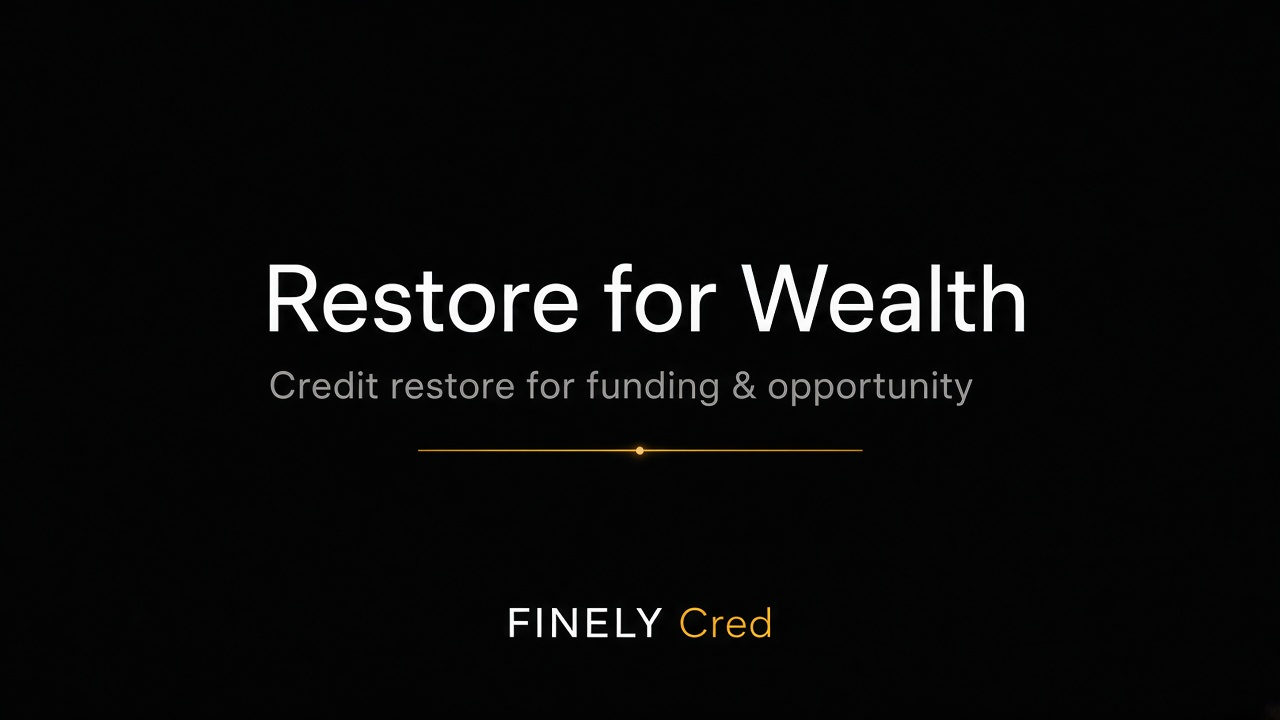
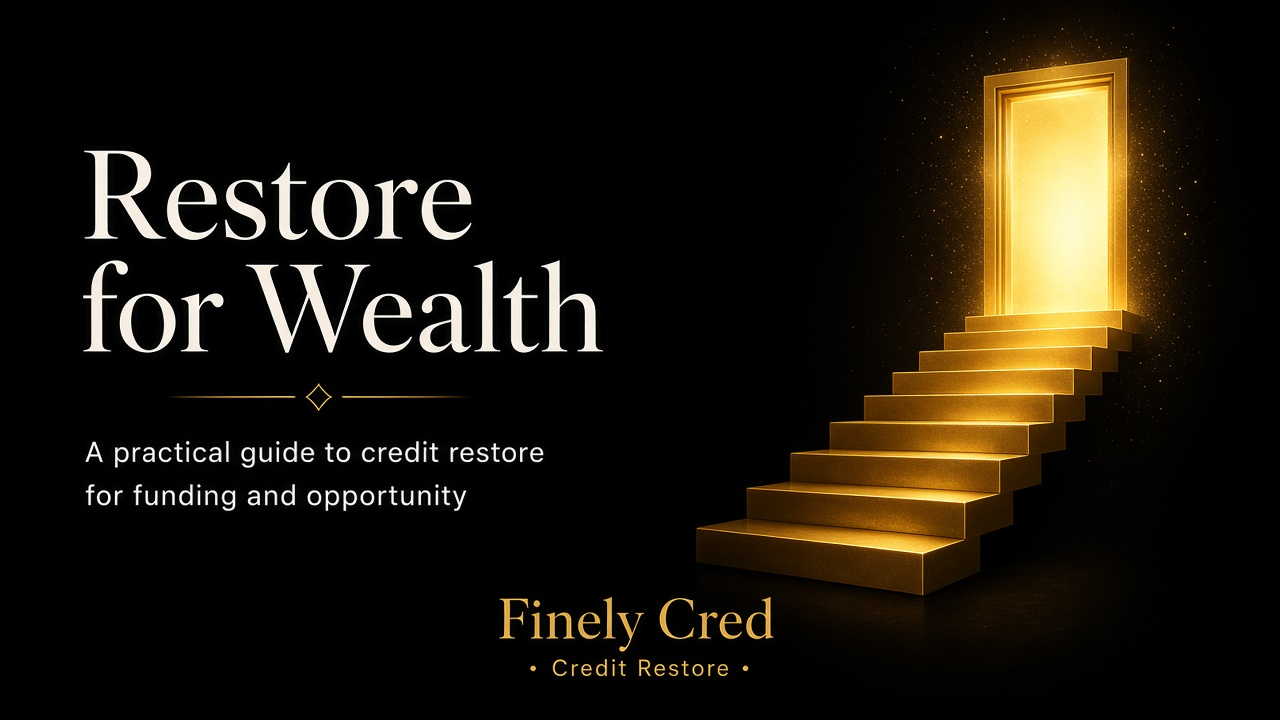
Wire locked v3 cultural ebook covers into funnels and admin preview.
Replace typography-only eGuide art with the gold-and-ink wealth-stairs and desk-culture covers, and show those same files on the admin conversion page and funnel OG cards.

diff --git a/src/pages/admin/AdminEbookConversionPage.tsx b/src/pages/admin/AdminEbookConversionPage.tsx
@@ -22,6 +22,7 @@ import {
   buildEbookConversionSnapshot,
   type EbookConversionPeriod,
 } from '../../lib/ebookConversionMetrics';
+import { BRAND_EBOOK_COVERS } from '../../components/leadmagnet/brandEbookCovers';
 
 const PERIODS: EbookConversionPeriod[] = [7, 14, 30];
 
@@ -95,6 +96,31 @@ export default function AdminEbookConversionPage({ embedded = false }: AdminEmbe
           <FinelyOsOverviewStatTile icon={BookOpen} label="Free Kreyòl guide" value={snapshot.kreyolGuide} accent="emerald" hint="/free-kreyol-guide · kreyol_companion" />
           <FinelyOsOverviewStatTile icon={Phone} label="With phone" value={`${snapshot.phonePct}%`} accent="sky" hint={`${snapshot.withPhone} of ${snapshot.total}`} />
           <FinelyOsOverviewStatTile icon={Radio} label="Other magnets" value={snapshot.otherMagnets} accent="rose" hint="Debt, business, partner-refer, untagged" />
+        </div>
+
+        <div className="grid md:grid-cols-2 gap-4">
+          <a href="/free-guide" className={`${finelyOsCatalogCard('amber')} overflow-hidden group`} data-fc-accent="amber">
+            <img
+              src={BRAND_EBOOK_COVERS.en}
+              alt="Restore for Wealth — English cover"
+              className="w-full aspect-video object-cover"
+            />
+            <div className="p-4">
+              <div className={FINELY_OS_ENTITY_TITLE}>Restore for Wealth</div>
+              <p className={`${FINELY_OS_ENTITY_SUBLABEL} mt-1`}>English `/free-guide` · wealth stairs · gold + ink</p>
+            </div>
+          </a>
+          <a href="/free-kreyol-guide" className={`${finelyOsCatalogCard('emerald')} overflow-hidden group`} data-fc-accent="emerald">
+            <img
+              src={BRAND_EBOOK_COVERS.kreyol}
+              alt="Gid Kredi an Kreyòl — cover"
+              className="w-full aspect-video object-cover"
+            />
+            <div className="p-4">
+              <div className={FINELY_OS_ENTITY_TITLE}>Gid Kredi an Kreyòl</div>
+              <p className={`${FINELY_OS_ENTITY_SUBLABEL} mt-1`}>Haitian `/free-kreyol-guide` · desk culture · gold + ink</p>
+            </div>
+          </a>
         </div>
 
         <div className="grid lg:grid-cols-12 gap-4">

diff --git a/src/lib/publicChatOperator.ts b/src/lib/publicChatOperator.ts
@@ -80,13 +80,13 @@ export function guideForGoal(goal: PublicChatGoal | null): OperatorGuide | null 
     return {
       title: 'Credit kits',
       href: '/free-kreyol-guide',
-      image: '/images/lead-magnets/agency-guide-book.png',
+      image: '/marketing/ebooks/gid-kredi-kreyol-cover.png',
     };
   }
   return {
     title: 'Free restore guide',
     href: '/free-guide',
-    image: '/images/product-shots/guide-dispute-cover.png',
+    image: '/marketing/ebooks/restore-for-wealth-cover.png',
   };
 }
 
@@ -104,7 +104,7 @@ export function operatorChipsForPath(pathname: string, goal: PublicChatGoal | nu
   if (inferred === 'personal') {
     return [
       { id: 'upload', label: 'Upload a report', prompt: 'I want to upload my credit report for a quick read.', action: 'upload', accent: 'emerald' },
-      { id: 'guide', label: 'Free restore guide', prompt: 'I want the free restore guide.', action: 'guide', href: '/free-guide', image: '/images/product-shots/guide-dispute-cover.png', accent: 'violet' },
+      { id: 'guide', label: 'Free restore guide', prompt: 'I want the free restore guide.', action: 'guide', href: '/free-guide', image: '/marketing/ebooks/restore-for-wealth-cover.png', accent: 'violet' },
       { id: 'transfer', label: 'Already in a dispute', prompt: 'I already disputed with another company. I want to start at the next round.', action: 'talk', accent: 'sky' },
       { id: 'book', label: 'Book a session', prompt: 'I want to book a session.', action: 'book', accent: 'rose' },
     ];

diff --git a/src/hooks/usePublicSeoMeta.ts b/src/hooks/usePublicSeoMeta.ts
@@ -15,6 +15,7 @@ export function usePublicSeoMeta(args: {
   title: string;
   description: string;
   path: string;
+  image?: string;
   audio?: { name: string; description: string; contentUrl?: string; durationSec?: number };
   faqs?: Array<{ q: string; a: string }>;
   howTo?: { name: string; description: string; steps: string[] };
@@ -41,7 +42,11 @@ export function usePublicSeoMeta(args: {
     setMeta('property', 'og:description', args.description);
     setMeta('property', 'og:url', pageUrl);
     setMeta('property', 'og:type', 'website');
-    setMeta('property', 'og:image', `${origin}/brand/finely-cred-logo-dark.png`);
+    const imagePath = args.image?.startsWith('http')
+      ? args.image
+      : `${origin}${args.image || '/brand/finely-cred-logo-dark.png'}`;
+    setMeta('property', 'og:image', imagePath);
+    setMeta('name', 'twitter:image', imagePath);
 
     injectJsonLd('fc-org-schema', buildOrganizationSchema(origin));
     injectJsonLd(
@@ -93,6 +98,7 @@ export function usePublicSeoMeta(args: {
     args.title,
     args.description,
     args.path,
+    args.image,
     args.audio?.name,
     args.audio?.description,
     args.audio?.contentUrl,

diff --git a/src/components/leadmagnet/LeadMagnetFunnelShell.tsx b/src/components/leadmagnet/LeadMagnetFunnelShell.tsx
@@ -36,6 +36,7 @@ import { findPartnerByEmail, upsertPartner } from '../../data/partnersRepo';
 import { withPreferredVoice } from '../../lib/haitianVoice';
 import { FunnelLeadCaptureForm, type FunnelLeadCaptureCopy } from './FunnelLeadCaptureForm';
 import { LeadMagnetCallSlaCard } from './LeadMagnetCallSlaCard';
+import { resolveBrandEbookCover } from './brandEbookCovers';
 import { FunnelCollectionDisputePanel } from './FunnelCollectionDisputePanel';
 import { FinelyOsPaginatedStack } from '../../features/os/FinelyOsPaginatedStack';
 import { FinelyUnifiedHubLayout } from '../../features/unified/FinelyUnifiedHubLayout';
@@ -101,6 +102,7 @@ export function LeadMagnetFunnelShell({
     title: activeConfig.metaTitle,
     description: activeConfig.metaDesc,
     path: activeConfig.path,
+    image: resolveBrandEbookCover(activeConfig.guideId, activeConfig.funnelId) ?? undefined,
     faqs:
       getLeadMagnetPremiumProfile(activeConfig)?.faqs ??
       (activeConfig.id === 'credit'

diff --git a/src/components/leadmagnet/brandEbookCovers.ts b/src/components/leadmagnet/brandEbookCovers.ts
@@ -1,7 +1,7 @@
 import type { FreeGuideId } from '../../resources/freeGuides';
 import type { LeadMagnetFunnelConfig } from '../../domain/leadMagnetFunnels';
 
-/** Official gold-on-ink covers. Never invent a shield-F mark. */
+/** Official gold-on-ink v3 cultural covers (wealth stairs / desk). Never invent a shield-F mark. */
 export const BRAND_EBOOK_COVERS = {
   en: '/marketing/ebooks/restore-for-wealth-cover.png',
   kreyol: '/marketing/ebooks/gid-kredi-kreyol-cover.png',

diff --git a/src/config/productShots.ts b/src/config/productShots.ts
@@ -82,8 +82,8 @@ export const PRODUCT_SHOTS = {
   freeGuideDisputeCover: {
     id: 'free-guide-dispute-cover',
     src: `${ROOT}/guide-dispute-cover.png`,
-    alt: 'Credit dispute letter guide — cover art',
-    caption: 'Guide art · dispute cover',
+    alt: 'Restore for Wealth — Finely Cred ebook cover',
+    caption: 'Guide art · restore cover',
     kind: 'guide-art',
     surface: 'free-guide',
   },

diff --git a/docs/ADMIN_EBOOK_AND_PARTNER_LIBRARY.md b/docs/ADMIN_EBOOK_AND_PARTNER_LIBRARY.md
@@ -54,15 +54,13 @@ The table is the main tool. **Export visible** is optional if you still want a s
 
 ## Brand ebook covers
 
-Official gold-on-ink covers live at:
+Locked v3 cultural covers (gold `#fbbf24` + ink `#060908` / `#0a100e` only). Refined **Finely Cred** wordmark — no shield-F, no stacked FINELY.
 
-- `/marketing/ebooks/restore-for-wealth-cover.png` (English `/free-guide`)
-- `/marketing/ebooks/gid-kredi-kreyol-cover.png` (Kreyòl `/free-kreyol-guide`)
+- `/marketing/ebooks/restore-for-wealth-cover.png` — English Restore for Wealth (wealth stairs + gold door) for `/free-guide`
+- `/marketing/ebooks/gid-kredi-kreyol-cover.png` — Kreyòl Gid Kredi (desk culture) for `/free-kreyol-guide`
 - `/marketing/ebooks/see-inside-preview.png`
 
-Copies also sit under `/guides/`. Official mark is the gold circle + FINELY Cred wordmark in `public/brand`. Do not invent a shield-F.
-
-Colors: gold `#fbbf24`, ink `#060908` / `#0a100e`.
+The same English file is also served as `/free-guide-cover.png`, `/guides/restore-for-wealth-cover.png`, `/guides/credit-dispute-letter-guide/cover.png`, and `/images/product-shots/guide-dispute-cover.png`. Official mark is the gold circle + Finely Cred wordmark in `public/brand`.
 
 ## Thank-you call SLA
 

diff --git a/public/images/product-shots/README.md b/public/images/product-shots/README.md
@@ -9,7 +9,7 @@ Demo-safe captures for free-guide + career pages. **No real PII.** Prefer fresh 
 | `free-guide-desktop.png` | `/free-guide` | FreeGuideProductShotStrip (devices) |
 | `free-guide-tablet.png` | `/free-guide` | FreeGuideProductShotStrip (devices) |
 | `free-guide-phone.png` | `/free-guide` | FreeGuideProductShotStrip (devices) |
-| `guide-dispute-cover.png` | `/free-guide` | FreeGuideProductShotStrip (materials) |
+| `guide-dispute-cover.png` | `/free-guide` | Restore for Wealth v3 cover (same art as `/marketing/ebooks/restore-for-wealth-cover.png`) |
 | `guide-dispute-spread.png` | `/free-guide` | FreeGuideProductShotStrip (materials) |
 | `guide-score-mockup.png` | `/free-guide` | FreeGuideProductShotStrip (materials) |
 | `career-cs-preview.png` | `/credit-specialist` + CS hub | CareerProductShotBand + RoleHubDeepenOverview (`hubCs`) |

diff --git a/public/brand/README.md b/public/brand/README.md
@@ -52,7 +52,7 @@ Copy-Item "public\brand\finely-cred-icon.svg" "$env:USERPROFILE\Desktop\finely-c
 
 Official mark is the **gold circle + FINELY Cred wordmark**. Never invent a shield-F.
 
-Ebook covers (wired into `/free-guide` and `/free-kreyol-guide`):
+Locked v3 ebook covers (wired into `/free-guide` and `/free-kreyol-guide`): wealth stairs + desk culture, gold `#fbbf24` on ink only, refined Finely Cred wordmark.
 
 - `/marketing/ebooks/restore-for-wealth-cover.png`
 - `/marketing/ebooks/gid-kredi-kreyol-cover.png`
